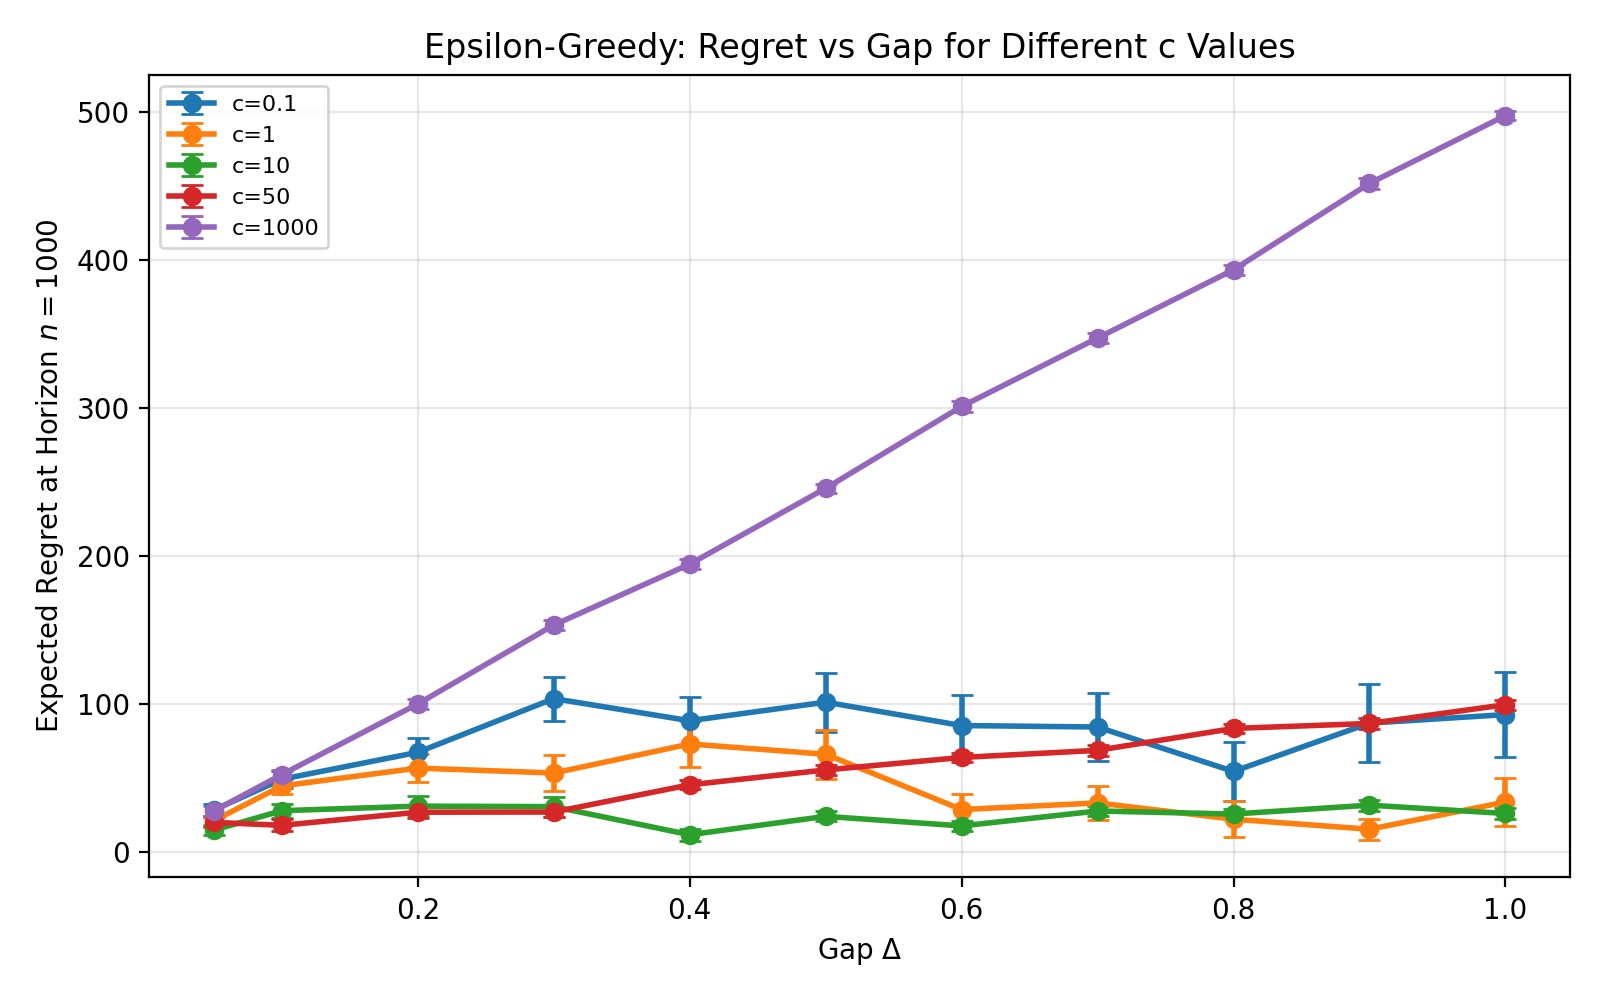
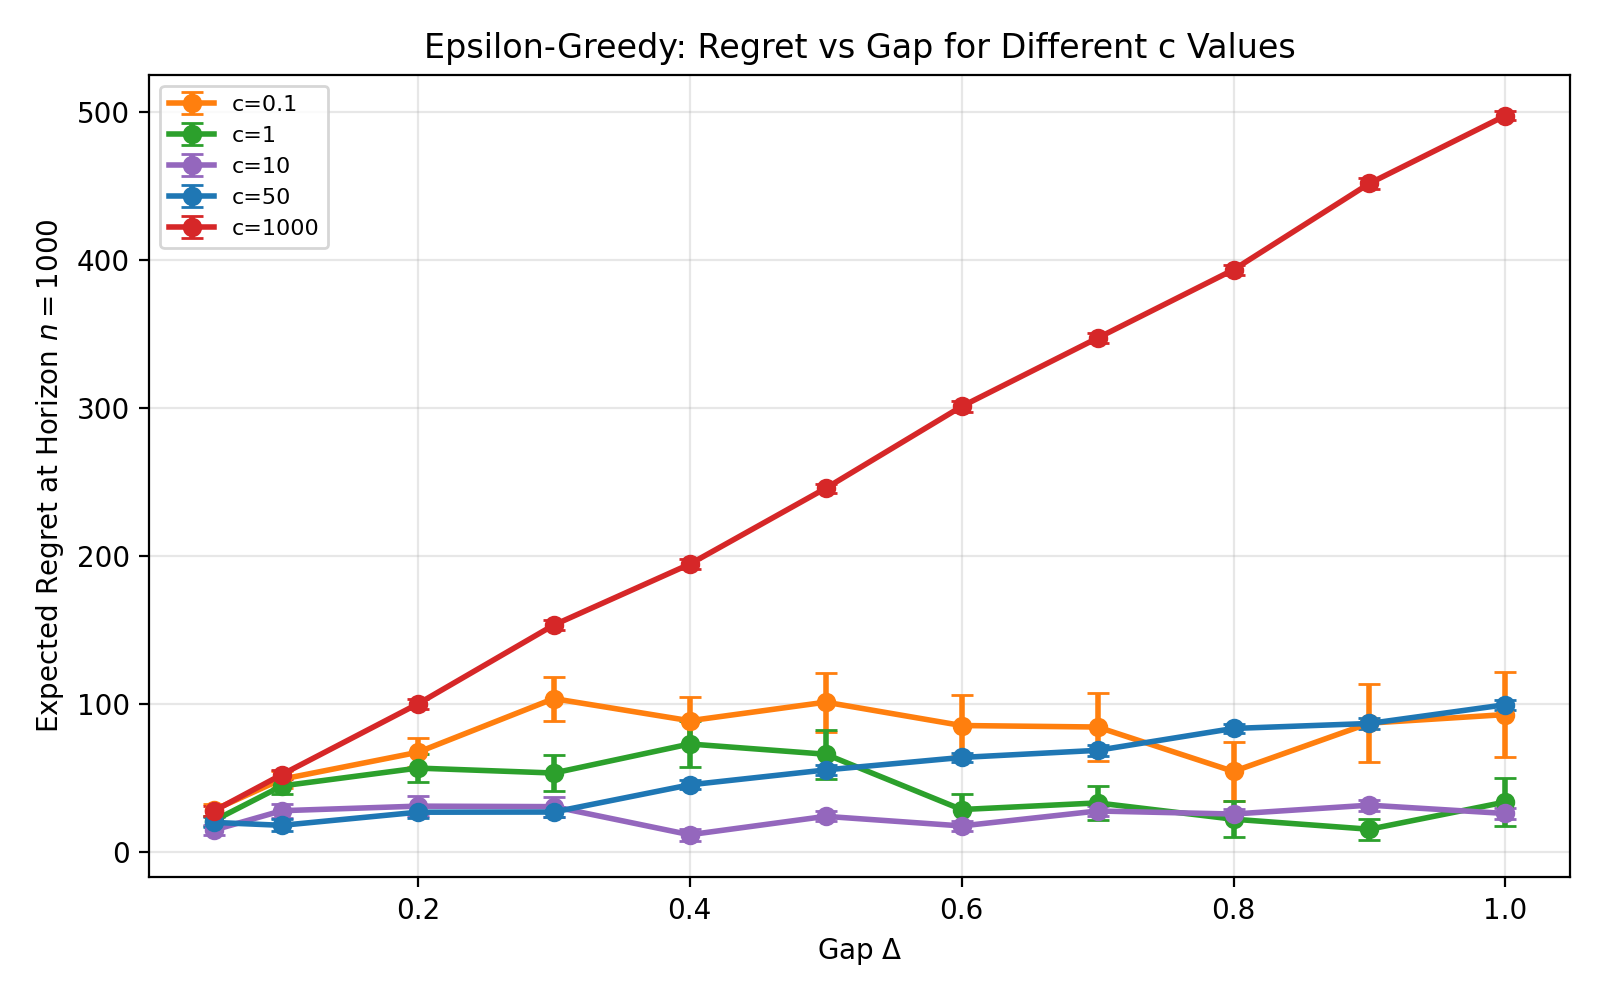
Updated experiments

diff --git a/hw3/main.py b/hw3/main.py
@@ -59,7 +59,8 @@ def empirical_regret_statistics(
 def build_algorithms() -> dict[str, BanditAlgorithm]:
     """Create fresh algorithm instances for one bandit instance."""
     return {
-        "epsilon_greedy": EpsilonGreedy(c=50.0, seed=GLOBAL_SEED),
+        "epsilon_greedy_c10": EpsilonGreedy(c=10.0, seed=GLOBAL_SEED),
+        "epsilon_greedy_c50": EpsilonGreedy(c=50.0, seed=GLOBAL_SEED),
         "explore_then_commit": ExploreThenCommit(m=None, seed=GLOBAL_SEED),
         "successive_elimination": SuccessiveElimination(seed=GLOBAL_SEED),
     }
@@ -159,12 +160,19 @@ def plot_regret_vs_delta(
     output_path.parent.mkdir(parents=True, exist_ok=True)
     figure, axis = plt.subplots(figsize=(8, 5))
     colors = {
-        "epsilon_greedy": "tab:blue",
+        "epsilon_greedy_c10": "tab:purple",
+        "epsilon_greedy_c50": "tab:blue",
         "explore_then_commit": "tab:orange",
         "successive_elimination": "tab:green",
     }
 
     for name, metrics in results.items():
+        label_map = {
+            "epsilon_greedy_c10": r"$\epsilon$-greedy ($c=10$)",
+            "epsilon_greedy_c50": r"$\epsilon$-greedy ($c=50$)",
+            "explore_then_commit": "ETC",
+            "successive_elimination": "SE",
+        }
         axis.errorbar(
             deltas,
             metrics["average_regret"],
@@ -173,7 +181,7 @@ def plot_regret_vs_delta(
             capsize=4,
             linewidth=2,
             color=colors[name],
-            label=name,
+            label=label_map[name],
         )
 
     # Plot theoretical upper bounds on regret
@@ -186,18 +194,17 @@ def plot_regret_vs_delta(
     n_arms = 2
     se_bound = np.full_like(deltas, np.sqrt(n_arms * config.horizon * np.log(config.horizon)))
 
-    # Epsilon-Greedy bound
-    epsilon_greedy_c = 50.0
-    eg_bound = epsilon_greedy_c * deltas + deltas * config.horizon / epsilon_greedy_c
+    # Epsilon-Greedy c=50 bound
+    epsilon_greedy_c50_bound = 50.0 * deltas + deltas * config.horizon / 50.0
 
     axis.plot(
         deltas,
-        eg_bound,
+        epsilon_greedy_c50_bound,
         "--",
-        color=colors["epsilon_greedy"],
+        color=colors["epsilon_greedy_c50"],
         linewidth=2,
         alpha=0.8,
-        label="epsilon_greedy_bound",
+        label=r"$\epsilon$-greedy ($c=50$) bound",
     )
     axis.plot(
         deltas,
@@ -206,7 +213,7 @@ def plot_regret_vs_delta(
         color=colors["explore_then_commit"],
         linewidth=2,
         alpha=0.8,
-        label="explore_then_commit_bound",
+        label="ETC bound",
     )
     axis.plot(
         deltas,
@@ -215,14 +222,22 @@ def plot_regret_vs_delta(
         color=colors["successive_elimination"],
         linewidth=2,
         alpha=0.8,
-        label="successive_elimination_bound",
+        label="SE bound",
     )
 
     axis.set_xlabel(r"Gap $\Delta$")
     axis.set_ylabel(rf"Expected Regret at Horizon $n = {config.horizon}$")
     axis.set_title("Monte Carlo Simulations on a 2-Armed Bandit Problem")
     axis.grid(True, alpha=0.3)
-    axis.legend(loc="lower right", fontsize=7)
+    axis.legend(
+        loc="lower right",
+        fontsize=6,
+        handlelength=3.0,
+        handletextpad=0.5,
+        labelspacing=0.3,
+        borderpad=0.3,
+        framealpha=0.9,
+    )
 
     figure.tight_layout()
     figure.savefig(output_path, dpi=200)

diff --git a/hw3/epsilon_greedy_c_experiment.py b/hw3/epsilon_greedy_c_experiment.py
@@ -100,6 +100,13 @@ def plot_c_sweep(
     """Plot empirical regret vs delta for each epsilon-greedy c value."""
     config.output_path.parent.mkdir(parents=True, exist_ok=True)
     figure, axis = plt.subplots(figsize=(8, 5))
+    color_map = {
+        "c=0.1": "tab:orange",
+        "c=1": "tab:green",
+        "c=10": "tab:purple",
+        "c=50": "tab:blue",
+        "c=1000": "tab:red",
+    }
 
     for label, metrics in results.items():
         axis.errorbar(
@@ -109,6 +116,7 @@ def plot_c_sweep(
             marker="o",
             capsize=4,
             linewidth=2,
+            color=color_map[label],
             label=label,
         )
 

diff --git a/hw3/README.md b/hw3/README.md
@@ -99,11 +99,18 @@ This generates:
 
 The current experiment compares:
 
-- `EpsilonGreedy`
+- `EpsilonGreedy (c=10)`
+- `EpsilonGreedy (c=50)`
 - `ExploreThenCommit`
 - `SuccessiveElimination`
 
 on a two-armed Gaussian bandit where one arm is optimal and the other is separated by a gap `delta`.
+
+The plot also overlays theoretical bounds for:
+
+- `EpsilonGreedy (c=50)`
+- `ExploreThenCommit`
+- `SuccessiveElimination`
 
 ### Plot
 
